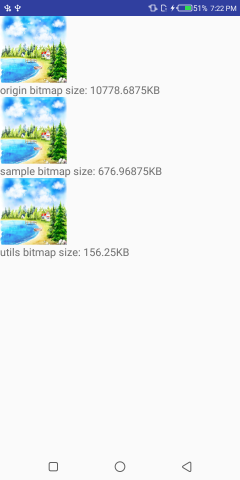
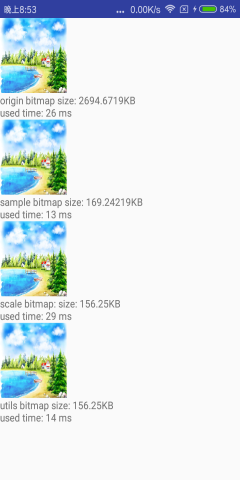
add time use cacultae
add time use cacultae

diff --git a/BitmapUtils/app/src/main/java/com/ice/bitmaputils/activity/BitmapUtilsAcivity.java b/BitmapUtils/app/src/main/java/com/ice/bitmaputils/activity/BitmapUtilsAcivity.java
@@ -19,9 +19,9 @@ import com.ice.bitmaputils.utils.BitmapUtils;
 public class BitmapUtilsAcivity extends Activity {
 
     private final static String TAG = "BitmapUtilsAcivity";
-    private ImageView mOriginView, mSampleView, mUtilsView;
-    private TextView mOriginTitle, mSampleTitle, mUtilsTitle;
-    private Bitmap mOriginBitmap, mSampleBitmap, mUtilsBitmap;
+    private ImageView mOriginView, mSampleView, mScaleView, mUtilsView;
+    private TextView mOriginTitle, mSampleTitle, mScaleTitle, mUtilsTitle;
+    private Bitmap mOriginBitmap, mSampleBitmap, mScaleBitmap, mUtilsBitmap;
 
     @Override
     protected void onCreate(@Nullable Bundle savedInstanceState) {
@@ -32,24 +32,41 @@ public class BitmapUtilsAcivity extends Activity {
 
         mOriginView = findViewById(R.id.origin_img);
         mSampleView = findViewById(R.id.sample_img);
+        mScaleView = findViewById(R.id.scale_img);
         mUtilsView = findViewById(R.id.utils_img);
 
         mOriginTitle = findViewById(R.id.origin_title);
         mSampleTitle = findViewById(R.id.sample_title);
+        mScaleTitle = findViewById(R.id.scale_title);
         mUtilsTitle = findViewById(R.id.utils_title);
 
+        long begin_time = System.currentTimeMillis();
         mOriginBitmap = getmOriginBitmap(R.drawable.test_decode);
-        mSampleBitmap = getSampleBitmap(R.drawable.test_decode,bitmap_size,bitmap_size);
-        mUtilsBitmap = BitmapUtils.createScaleBitmapFromRes(this,R.drawable.test_decode,bitmap_size,bitmap_size,null);
-
+        begin_time = (System.currentTimeMillis() - begin_time);
         mOriginView.setImageBitmap(mOriginBitmap);
-        mOriginTitle.setText(mOriginBitmap!=null&&!mOriginBitmap.isRecycled() ? "origin bitmap "+formatbitToKB(mOriginBitmap.getByteCount()):null);
+        mOriginTitle.setText((mOriginBitmap!=null&&!mOriginBitmap.isRecycled() ? "origin bitmap "+formatbitToKB(mOriginBitmap.getByteCount()):null)
+                +"\nused time: "+(begin_time)+" ms");
 
+        begin_time = System.currentTimeMillis();
+        mSampleBitmap = getSampleBitmap(R.drawable.test_decode,bitmap_size,bitmap_size);
+        begin_time = (System.currentTimeMillis() - begin_time);
         mSampleView.setImageBitmap(mSampleBitmap);
-        mSampleTitle.setText(mSampleBitmap!=null&&!mSampleBitmap.isRecycled() ? "sample bitmap "+formatbitToKB(mSampleBitmap.getByteCount()):null);
+        mSampleTitle.setText((mSampleBitmap!=null&&!mSampleBitmap.isRecycled() ? "sample bitmap "+formatbitToKB(mSampleBitmap.getByteCount()):null)
+                +"\nused time: "+(begin_time)+" ms");
 
+        begin_time = System.currentTimeMillis();
+        mScaleBitmap = Bitmap.createScaledBitmap(getmOriginBitmap(R.drawable.test_decode),bitmap_size,bitmap_size,true);
+        begin_time = (System.currentTimeMillis() - begin_time);
+        mScaleView.setImageBitmap(mScaleBitmap);
+        mScaleTitle.setText((mScaleBitmap!=null&&!mScaleBitmap.isRecycled() ? "scale bitmap: "+formatbitToKB(mScaleBitmap.getByteCount()):null)
+                +"\nused time: "+(begin_time)+" ms");
+
+        begin_time = System.currentTimeMillis();
+        mUtilsBitmap = BitmapUtils.createScaleBitmapFromRes(this,R.drawable.test_decode,bitmap_size,bitmap_size,null);
+        begin_time = (System.currentTimeMillis() - begin_time);
         mUtilsView.setImageBitmap(mUtilsBitmap);
-        mUtilsTitle.setText(mUtilsBitmap!=null&&!mUtilsBitmap.isRecycled() ? "utils bitmap "+formatbitToKB(mUtilsBitmap.getByteCount()):null);
+        mUtilsTitle.setText((mUtilsBitmap!=null&&!mUtilsBitmap.isRecycled() ? "utils bitmap "+formatbitToKB(mUtilsBitmap.getByteCount()):null)
+                +"\nused time: "+(begin_time)+" ms");
 
 
     }
@@ -66,6 +83,10 @@ public class BitmapUtilsAcivity extends Activity {
 
         if(mUtilsBitmap!=null && !mUtilsBitmap.isRecycled()) {
             mUtilsBitmap.recycle();
+        }
+
+        if(mScaleBitmap!=null && !mScaleBitmap.isRecycled()) {
+            mScaleBitmap.recycle();
         }
         super.onDestroy();
     }
